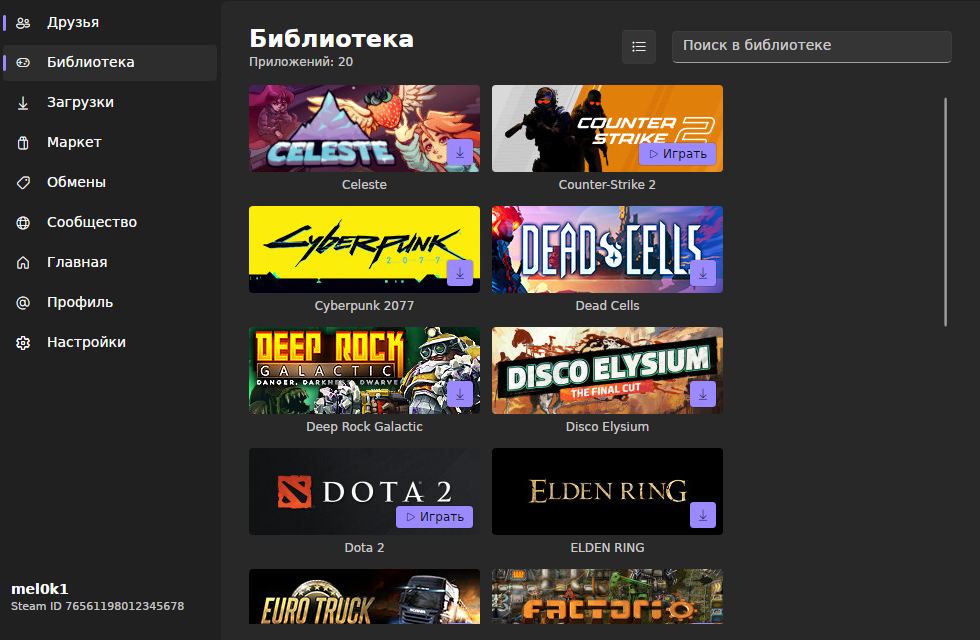
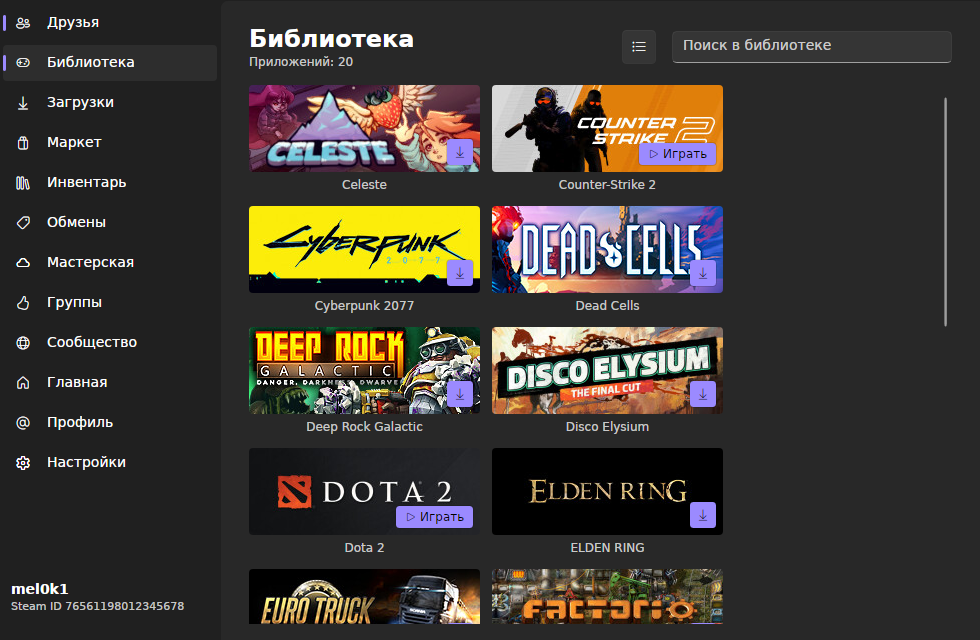
refresh screenshots and readme

diff --git a/tools/Screenshots/Program.cs b/tools/Screenshots/Program.cs
@@ -124,7 +124,12 @@ internal static class Program
             .AddSingleton<ItemIconCache>()
             .AddSingleton<ThemeService>()
             .AddSingleton<MarketService>()
+            .AddSingleton(sp => new InventoryService(
+                sp.GetRequiredService<SteamWebApi>(),
+                () => Task.FromResult(76561198012345678UL)))
             .AddSingleton<TradeService>()
+            .AddSingleton<WorkshopService>()
+            .AddSingleton<GroupService>()
             .AddSingleton<CommunityService>()
             .AddSingleton<LogonViewModel>()
             .AddSingleton<MainViewModel>()
@@ -133,7 +138,10 @@ internal static class Program
             .AddSingleton<LibraryViewModel>()
             .AddSingleton<DownloadViewModel>()
             .AddSingleton<MarketViewModel>()
+            .AddSingleton<InventoryViewModel>()
             .AddSingleton<TradesViewModel>()
+            .AddSingleton<WorkshopViewModel>()
+            .AddSingleton<GroupsViewModel>()
             .AddSingleton<CommunityViewModel>()
             .AddSingleton<ProfileViewModel>()
             .AddSingleton<SettingsViewModel>()
@@ -268,6 +276,29 @@ internal static class Program
         await Task.Delay(2200);
         await CaptureAsync(window, Path.Combine(outDir, "trades-dark.png"));
 
+        await SeedTradeCreationAsync(main, services);
+        await PumpAsync();
+        await CaptureAsync(window, Path.Combine(outDir, "trades-create-dark.png"));
+        main.Trades.IsCreating = false;
+
+        window.NavigateTo("inventory");
+        await SeedInventoryAsync(main.Inventory, services);
+        await Task.Delay(2500);
+        await PumpAsync();
+        await CaptureAsync(window, Path.Combine(outDir, "inventory-dark.png"));
+
+        window.NavigateTo("workshop");
+        await SeedWorkshopAsync(main.Workshop, services);
+        await Task.Delay(3500);
+        await PumpAsync();
+        await CaptureAsync(window, Path.Combine(outDir, "workshop-dark.png"));
+
+        window.NavigateTo("groups");
+        await SeedGroupsAsync(main.Groups, services);
+        await Task.Delay(2500);
+        await PumpAsync();
+        await CaptureAsync(window, Path.Combine(outDir, "groups-dark.png"));
+
         window.NavigateTo("community");
         await Task.Delay(5000);
         await CaptureAsync(window, Path.Combine(outDir, "community-dark.png"));
@@ -343,7 +374,7 @@ internal static class Program
 
         TradeOfferSnapshot Snapshot(int index, TradeDirection direction, ulong partner, string message, bool mobile, int giveFrom, int receiveFrom)
         {
-            TradeAssetSnapshot Asset(int slot) => new(730, slot + 1, 0, 1000 + slot);
+            TradeAssetSnapshot Asset(int slot) => new(730, 2, slot + 1, 0, 1000 + slot);
 
             return new TradeOfferSnapshot(
                 3314000000UL + (ulong)index,
@@ -372,6 +403,235 @@ internal static class Program
         trades.Offers.Add(first);
         trades.Offers.Add(second);
         trades.StatusText = "Активных обменов: 2";
+    }
+
+    private static async Task SeedTradeCreationAsync(MainViewModel main, IServiceProvider services)
+    {
+        var trades = main.Trades;
+        var icons = services.GetRequiredService<ItemIconCache>();
+        var market = services.GetRequiredService<MarketService>();
+
+        trades.SuppressAutoLoad();
+        trades.IsCreating = true;
+        trades.OfferMessage = "Меняю кейсы на ключи, го";
+        trades.SelectedFriend = main.Friends.Friends[3];
+        await Task.Delay(2500);
+
+        var items = await LoadMarketItemsAsync(market);
+
+        for (var i = 0; i < items.Count; i++)
+        {
+            var snapshot = new InventoryItemSnapshot(
+                730,
+                2,
+                (1000 + i).ToString(CultureInfo.InvariantCulture),
+                i + 1,
+                0,
+                items[i].Name,
+                items[i].HashName,
+                i % 2 == 0 ? "Контейнер" : "Обычный предмет",
+                items[i].IconUrl,
+                null,
+                true,
+                true,
+                string.Empty);
+            var item = new InventoryItem(snapshot);
+            trades.AddOwnTradeItem(item);
+            _ = LoadItemIconAsync(item, icons, items[i].IconUrl);
+        }
+
+        if (trades.OwnItems.Count > 0)
+            trades.OwnItems[0].IsSelected = true;
+
+        if (trades.OwnItems.Count > 2)
+            trades.OwnItems[2].IsSelected = true;
+
+        trades.TheirStatusText = "Инвентарь друга пуст или закрыт настройками приватности";
+    }
+
+    private static async Task SeedInventoryAsync(InventoryViewModel inventory, IServiceProvider services)
+    {
+        var icons = services.GetRequiredService<ItemIconCache>();
+        var market = services.GetRequiredService<MarketService>();
+
+        await inventory.EnsureLoadedAsync();
+
+        var items = await LoadMarketItemsAsync(market);
+        inventory.SelectedItem = null;
+        inventory.Items.Clear();
+        inventory.VisibleItems.Clear();
+
+        for (var i = 0; i < items.Count; i++)
+        {
+            var snapshot = new InventoryItemSnapshot(
+                730,
+                2,
+                (2000 + i).ToString(CultureInfo.InvariantCulture),
+                i + 1,
+                0,
+                items[i].Name,
+                items[i].HashName,
+                i % 2 == 0 ? "Контейнер" : "Обычный предмет",
+                items[i].IconUrl,
+                null,
+                true,
+                true,
+                i % 2 == 0 ? "Открывается, чтобы получить один из предметов внутри." : string.Empty);
+            var item = new InventoryItem(snapshot);
+            inventory.Items.Add(item);
+            inventory.VisibleItems.Add(item);
+            _ = LoadItemIconAsync(item, icons, items[i].IconUrl);
+        }
+
+        inventory.StatusText = $"Предметов: {inventory.Items.Count} из {inventory.Items.Count}";
+
+        if (inventory.VisibleItems.Count > 0)
+        {
+            inventory.SelectedItem = inventory.VisibleItems[0];
+            inventory.SellPrice = "49,99";
+        }
+    }
+
+    private static async Task SeedWorkshopAsync(WorkshopViewModel workshop, IServiceProvider services)
+    {
+        var icons = services.GetRequiredService<ItemIconCache>();
+        var market = services.GetRequiredService<MarketService>();
+
+        await workshop.EnsureLoadedAsync();
+
+        var items = await LoadMarketItemsAsync(market);
+        var titles = new[]
+        {
+            "Пыль 2 — ремейк классической карты",
+            "Зомби-кампания: Последний рубеж",
+            "Мод на графику: Панорама",
+            "Кампания: Тёмные пещеры",
+            "Арена для дуэлей",
+            "Тренировочная карта для прицела",
+            "Сборник скинов оружий",
+            "Модели игроков: Легион"
+        };
+
+        workshop.SelectedItem = null;
+        workshop.Items.Clear();
+
+        for (var i = 0; i < Math.Min(titles.Length, items.Count); i++)
+        {
+            var snapshot = new WorkshopFileSnapshot(
+                (2900000000 + i).ToString(CultureInfo.InvariantCulture),
+                730,
+                titles[i],
+                "Карты, моды и кампании от сообщества: полноценный материал с превью, тегами и статистикой загрузок.",
+                $"https://community.cloudflare.steamstatic.com/economy/image/{items[i].IconUrl}/256fx144f",
+                (i + 1) * 1_400_000,
+                76561198000000000UL.ToString(CultureInfo.InvariantCulture),
+                DateTimeOffset.UtcNow.AddDays(-40 - i * 9),
+                DateTimeOffset.UtcNow.AddDays(-3 - i),
+                180_000 - i * 12_000,
+                24_000 - i * 900,
+                900_000 - i * 45_000,
+                i % 2 == 0 ? "Карты, Аркада" : "Моды, Геймплей",
+                i % 2 == 0 ? "Dmitry" : "PixelPioneer");
+            var item = new WorkshopItem(snapshot);
+            workshop.Items.Add(item);
+            _ = icons.LoadUrlAsync(snapshot.PreviewUrl).ContinueWith(t => item.SetIcon(t.Result), TaskScheduler.FromCurrentSynchronizationContext());
+        }
+
+        workshop.StatusText = "Найдено материалов: 1462";
+
+        if (workshop.Items.Count > 0)
+        {
+            workshop.SelectedItem = workshop.Items[0];
+            workshop.ActionMessage = string.Empty;
+        }
+    }
+
+    private static async Task SeedGroupsAsync(GroupsViewModel groups, IServiceProvider services)
+    {
+        var icons = services.GetRequiredService<ItemIconCache>();
+        var market = services.GetRequiredService<MarketService>();
+
+        await groups.EnsureLoadedAsync();
+
+        var items = await LoadMarketItemsAsync(market);
+        var names = new[]
+        {
+            ("valvesoftware", "Valve Software", "Официальная группа Valve Corporation.", 482_000),
+            ("cs2community", "CS2 Community", "Новости, турниры и обмен тактиками Counter-Strike 2.", 156_000),
+            ("indiehunt", "Инди-охотники", "Находим жемчужины в распродажах и делимся обзорами.", 12_400)
+        };
+
+        groups.SelectedGroup = null;
+        groups.Groups.Clear();
+
+        for (var i = 0; i < names.Length; i++)
+        {
+            var (shortName, name, summary, members) = names[i];
+            var snapshot = new GroupSnapshot(
+                "10358279144000000" + i,
+                shortName,
+                name,
+                string.Empty,
+                summary,
+                null,
+                members,
+                members / 42,
+                members / 120);
+            var item = new GroupItem(snapshot);
+            groups.Groups.Add(item);
+            _ = LoadGroupAvatarAsync(item, icons, market, items, i);
+        }
+
+        groups.StatusText = $"Групп: {groups.Groups.Count}";
+        groups.ActionMessage = string.Empty;
+
+        if (groups.Groups.Count > 0)
+            groups.SelectedGroup = groups.Groups[0];
+    }
+
+    private static async Task LoadItemIconAsync(InventoryItem item, ItemIconCache icons, string? iconUrl)
+    {
+        var bitmap = await icons.LoadAsync(iconUrl);
+
+        if (bitmap == null)
+            return;
+
+        await Dispatcher.UIThread.InvokeAsync(() => item.SetIcon(bitmap));
+    }
+
+    private static async Task LoadGroupAvatarAsync(GroupItem item, ItemIconCache icons, MarketService market, List<MarketItemSnapshot> items, int index)
+    {
+        if (items.Count == 0)
+            return;
+
+        var url = $"https://community.cloudflare.steamstatic.com/economy/image/{items[index % items.Count].IconUrl}/96fx96f";
+        var bitmap = await icons.LoadUrlAsync(url);
+
+        if (bitmap == null)
+            return;
+
+        await Dispatcher.UIThread.InvokeAsync(() => item.SetAvatar(bitmap));
+    }
+
+    private static async Task<List<MarketItemSnapshot>> LoadMarketItemsAsync(MarketService market)
+    {
+        for (var attempt = 0; attempt < 3; attempt++)
+        {
+            try
+            {
+                var result = await market.SearchAsync(730, string.Empty, 0, 10);
+
+                if (result.Items.Count > 0)
+                    return result.Items.ToList();
+            }
+            catch
+            {
+            }
+
+            await Task.Delay(2000);
+        }
+
+        return [];
     }
 
     private static async Task Shot(Window window, string path)

diff --git a/README.md b/README.md
@@ -12,8 +12,13 @@ A minimal Steam client built on [SteamKit2](https://github.com/SteamRE/SteamKit)
 - Friends list with live presence, avatars and disk-cached images
 - Friend chat: messages, typing indicator, unread badges and server-side history
 - Profile page: avatar, persona name, status, country, summary, member since and Steam id
-- Marketplace through the Steam Web API: item search with app and currency filters, price overview (lowest, median, daily volume) and personal sell listings with buy orders
+- Marketplace through the Steam Web API: item search with app and currency filters, price overview (lowest, median, daily volume) and personal sell listings with buy orders that can be cancelled
+- Inventory browser: items per app and context with icons, tradable and marketable badges, descriptions and price overview for each item
+- Selling from the inventory: list an item on the market for a buyer price without leaving the app
 - Trade offers through IEconService with item tiles from both sides, accept, decline and cancel through steamcommunity
+- Trade offer creation: pick a friend, select items from your inventory and the friend's inventory on both sides, attach a message and send the offer
+- Workshop: search and browse materials per app with previews, statistics and tags, subscribe and unsubscribe through steamcommunity
+- Groups: your groups with avatars and member counts, group lookup by short name or link, join and leave
 - Community page: game news for owned apps and featured store items (specials, top sellers, new releases)
 - Library of owned apps through PICS with names, types, icons, search, list and Steam-style capsule grid
 - Downloads through SteamContent: parallel chunk download from the Steam CDN with decryption, verification, progress and cancel
@@ -43,6 +48,14 @@ The refresh token and guard data are stored unencrypted in `~/.config/Miseria/se
 | --- | --- |
 | ![Market search and price overview in the Dark theme](docs/screenshots/market-dark.png) | ![Trade offers in the Dark theme](docs/screenshots/trades-dark.png) |
 
+| Inventory (Dark) | Trade creation (Dark) |
+| --- | --- |
+| ![Inventory with market listing in the Dark theme](docs/screenshots/inventory-dark.png) | ![Trade offer creation in the Dark theme](docs/screenshots/trades-create-dark.png) |
+
+| Workshop (Dark) | Groups (Dark) |
+| --- | --- |
+| ![Workshop browse and subscribe in the Dark theme](docs/screenshots/workshop-dark.png) | ![Groups with join and leave](docs/screenshots/groups-dark.png) |
+
 | Community (Dark) | |
 | --- | --- |
 | ![Community news and featured store items](docs/screenshots/community-dark.png) | |
@@ -67,9 +80,9 @@ xvfb-run -a dotnet run --project tools/Screenshots -- docs/screenshots
 
 The long-term goal is a central hub client like Steam itself. Planned next:
 
-- Inventory browser with item context and market listing creation
-- Trade offer creation from the inventory
-- Workshop browsing, groups and the friends activity feed
+- Market buy orders creation
+- Friends activity feed
+- Group announcements and discussions
 
 ## License
 
